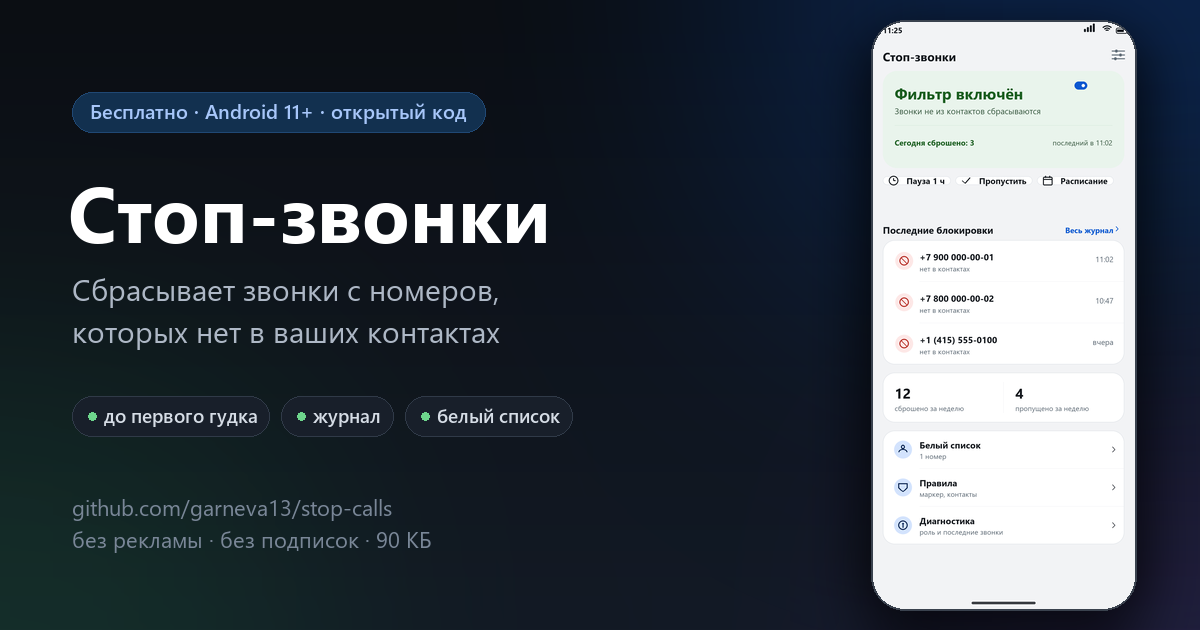
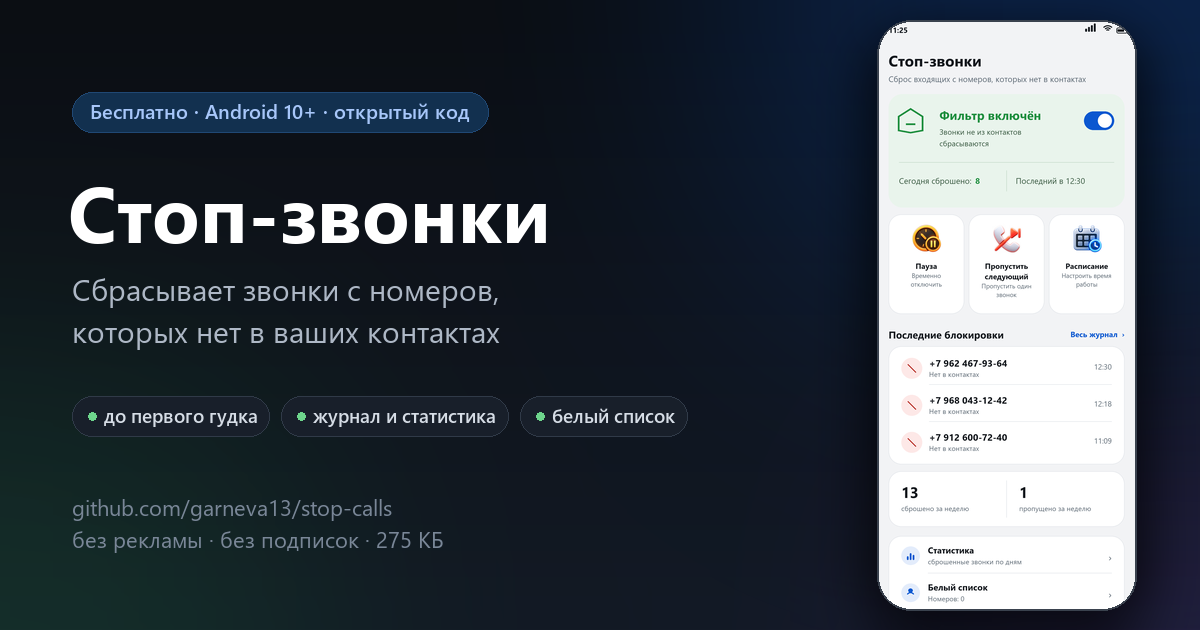
Cover: refresh social preview for 1.12

diff --git a/tools/make_cover.py b/tools/make_cover.py
@@ -11,7 +11,7 @@ from PIL import Image, ImageDraw, ImageFilter, ImageFont
 
 W, H = 1200, 630
 OUT = os.path.join(os.path.dirname(os.path.dirname(os.path.abspath(__file__))), "docs")
-PHONE = os.path.join(OUT, "variant-a-control.png")
+PHONE = os.path.join(OUT, "home.png")
 BOLD = r"C:\Windows\Fonts\segoeuib.ttf"
 SEMI = r"C:\Windows\Fonts\seguisb.ttf"
 REG = r"C:\Windows\Fonts\segoeui.ttf"
@@ -100,7 +100,7 @@ def render(height, path):
     # --- text block ------------------------------------------------------
     left = 72
 
-    badge = "Бесплатно · Android 11+ · открытый код"
+    badge = "Бесплатно · Android 10+ · открытый код"
     pill(draw, left, 92 + dy, badge, 20, ACCENT, ACCENT_SOFT, (32, 72, 116))
 
     title_font = font(BOLD, 78)
@@ -112,7 +112,7 @@ def render(height, path):
 
     chip_font = font(SEMI, 19)
     x = left
-    for label in ("до первого гудка", "журнал", "белый список"):
+    for label in ("до первого гудка", "журнал и статистика", "белый список"):
         width = int(draw.textlength(label, font=chip_font)) + 44
         draw.rounded_rectangle([x, 396 + dy, x + width, 436 + dy], radius=20,
                                fill=(24, 31, 42), outline=(48, 58, 72), width=1)
@@ -123,7 +123,7 @@ def render(height, path):
 
     url_font = font(REG, 22)
     draw.text((left, 492 + dy), "github.com/garneva13/stop-calls", font=url_font, fill=DIM)
-    draw.text((left, 524 + dy), "без рекламы · без подписок · 90 КБ", font=url_font, fill=DIM)
+    draw.text((left, 524 + dy), "без рекламы · без подписок · 275 КБ", font=url_font, fill=DIM)
 
     base.convert("RGB").save(path, optimize=True)
     print(path)
